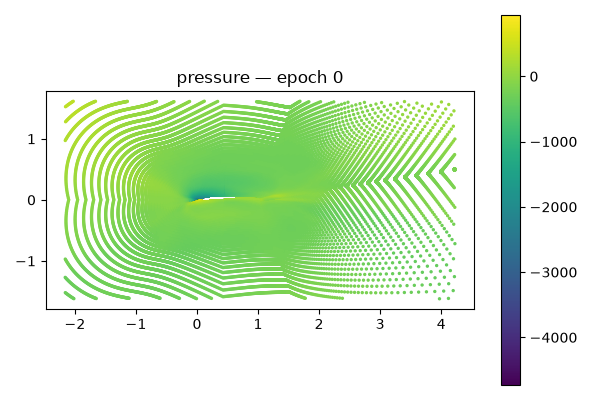
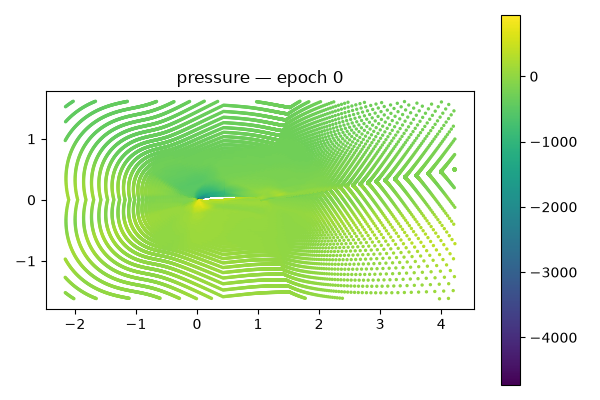
GraphSAGE full-scale training complete (400/400 epochs, best val_loss 0.1740, ~42h with zero restarts); Step 6 eval launched

diff --git a/PROGRESS.md b/PROGRESS.md
@@ -1,5 +1,20 @@
 # PROGRESS
 
+## 2026-07-11 — GraphSAGE scale-up run COMPLETE; both models now fully trained
+
+`graphsage_full_64k` finished all 400 epochs (supervisor: "reached target epoch 399, done", clean exit code 0), running continuously under supervision for ~42 hours since the 2026-07-09 relaunch with **zero restarts needed** -- the RSS stayed a rock-steady ~7.3GB the entire time (as expected: fixed `--n-points 64000` means fixed batch shapes, so it never triggered the MPS caching-allocator growth that plagued the full-resolution MLP run). **Best val_loss: 0.1740** (`checkpoints/graphsage_full_64k_best.pt`) -- meaningfully better than the full-resolution MLP's 0.2396, consistent with GraphSAGE's message-passing advantage.
+
+Both scale-up models are now trained:
+
+| model | best val_loss |
+|---|---|
+| MLP (full task, full res) | 0.2396 |
+| GraphSAGE (full task, 64k pts) | **0.1740** |
+
+Launched Step 6 test-set evaluation on the finished GraphSAGE checkpoint (`checkpoints/eval_results_graphsage_full_64k.json`, background). Note the same caveat documented in `src/evaluate.py` applies as it did for the original scarce-task GraphSAGE eval: chunked inference builds a separate k-NN graph per 50k-point chunk, so cross-chunk neighbor edges are missing at full-resolution test-sim chunk boundaries -- this is an existing, already-accounted-for limitation, not a new confound, and makes this comparable apples-to-apples with the original scarce+16k GraphSAGE Cl/Cd numbers from Step 6.
+
+Once eval finishes: build the final comparison table (scarce MLP / scarce GraphSAGE / full MLP / full GraphSAGE / paper baselines), regenerate evolution GIFs for both v4 runs, re-export ONNX, point `app.py`/`predict.py` at the best-performing checkpoint (likely GraphSAGE given its lower val_loss, pending the Cl/Cd numbers), and update README.
+
 ## 2026-07-09, evening — MLP scale-up run COMPLETE; GraphSAGE relaunched under supervision; Step 6 eval running
 
 - **`mlp_full_fullres_v4` finished all 400 epochs** (supervisor log: "reached target epoch 399, done", clean exit code 0). One auto-recovery happened along the way (epoch 316, kernel SIGKILL, resumed automatically within 10s, no manual intervention -- see prior entry). **Best val_loss: 0.2396** (`checkpoints/mlp_full_fullres_v4_best.pt`); final-epoch (399) val_loss 0.2706, train_loss 0.081 -- converged and plateaued cleanly over the last ~50 epochs, no overfitting blowup.
